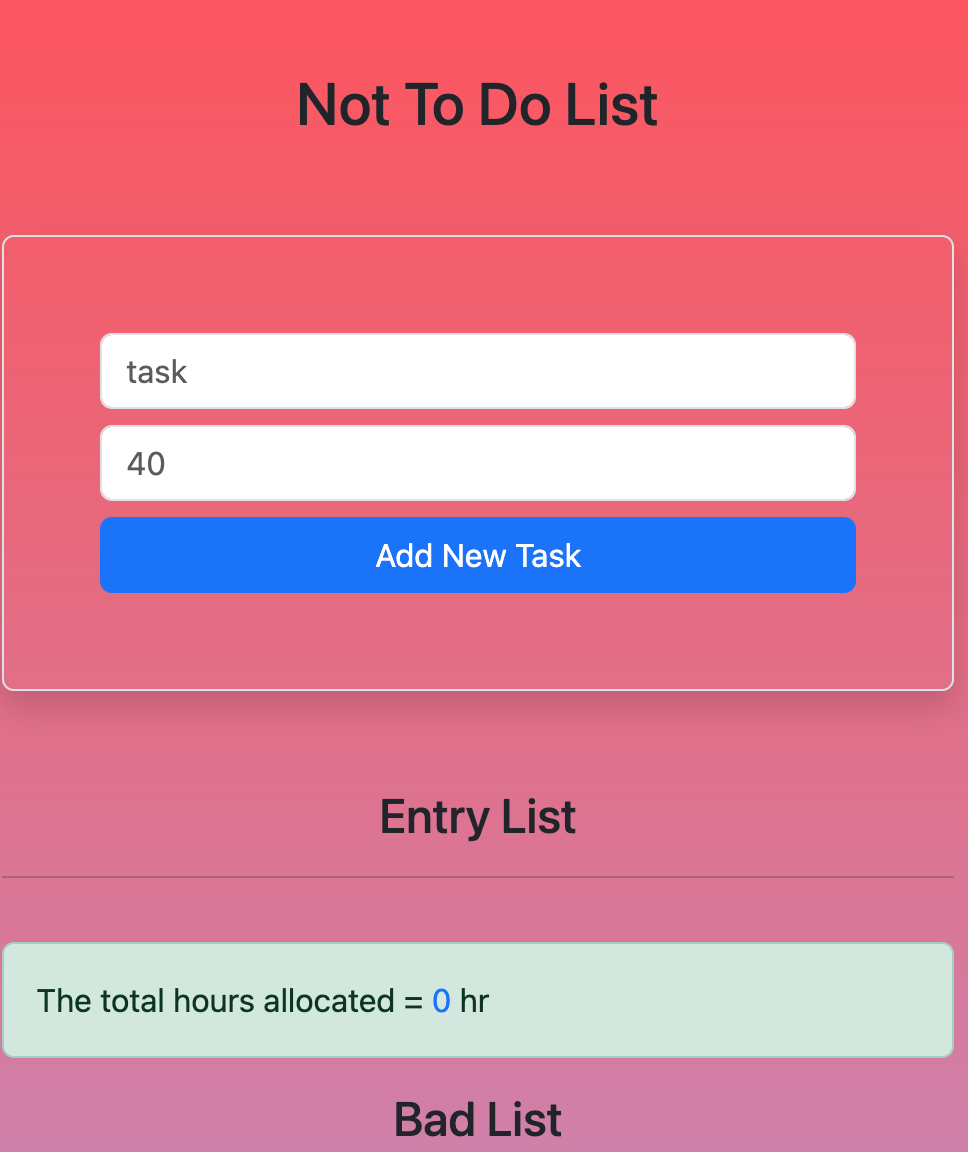
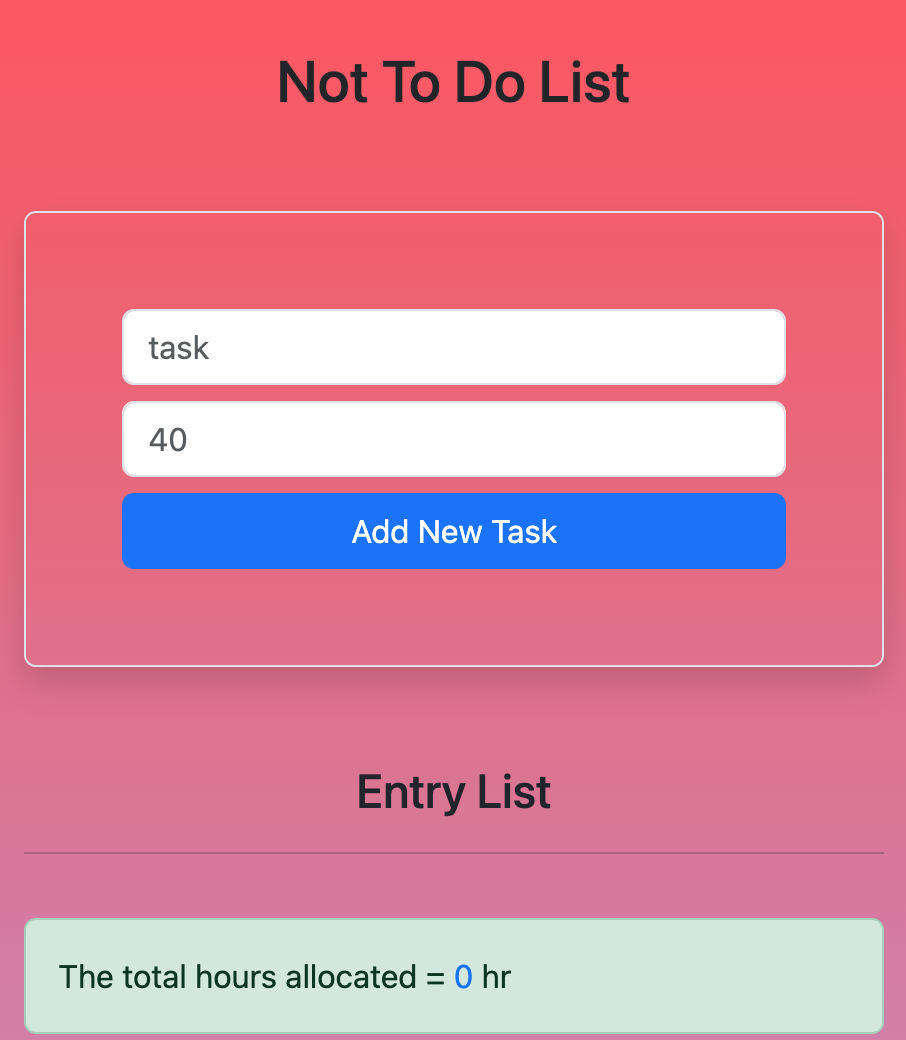
portfolio updated

diff --git a/style.css b/style.css
@@ -38,6 +38,7 @@ html {
 .container {
   width: 80%;
   margin: auto;
+  max-width: 1400px;
 }
 
 .background {
@@ -272,6 +273,8 @@ p {
   font-size: 2rem;
   display: flex;
   justify-content: center;
+  padding-top: 50px;
+  padding-bottom: 100px;
 }
 .sub-skills {
   display: flex;
@@ -294,53 +297,37 @@ i {
 .projects {
   height: 100%;
   padding-bottom: 20px;
+  width: 100%;
 }
-.projects .container {
-  display: flex;
-  flex-direction: column;
-  gap: 30px;
-}
-.project-cards {
+.projects-container {
   display: grid;
-  grid-template-areas:
-    "card-1 card-2"
-    "card-3 card-4";
-  grid-template-columns: 1fr 1fr;
+  gap: 1rem;
+  grid-template-columns: repeat(2, 1fr);
   gap: 10px;
 }
-.pro-img {
+
+.pro-title {
+  color: var(--black-text);
   display: flex;
   justify-content: center;
-}
-.pro-img-size {
-  width: 100%;
-  height: 40vh;
-}
-.pro-title h3 {
-  color: var(--black-text);
-}
-.tech-stack {
-  color: var(--black-text);
-}
-.card {
-  height: 65vh;
-  box-shadow: rgba(0, 0, 0, 0.25) 0px 18px 150px -20px;
-  display: flex;
   flex-direction: column;
+  align-items: start;
+  padding-left: 10px;
+}
+
+.card {
+  box-shadow: rgba(0, 0, 0, 0.25) 0px 18px 150px -20px;
+  border-radius: 5px;
+  padding-bottom: 3rem;
+  width: auto;
+}
+.card img {
+  width: 100%;
+}
+.git-link {
+  display: flex;
   justify-content: center;
   align-items: center;
-}
-.card-1 {
-  grid-area: card-1;
-}
-.card-2 {
-  grid-area: card-2;
-}
-.card-3 {
-  grid-area: card-3;
-}
-.card-4 {
-  grid-area: card-4;
 }
 
 /* about me infomation */
@@ -352,7 +339,7 @@ i {
   flex-direction: column;
   justify-content: center;
   align-items: center;
-  padding-top: 100px;
+
   gap: 50px;
 }
 .aboutme .container .content {
@@ -465,14 +452,22 @@ i {
     left: 15%;
     flex-wrap: wrap;
   }
-  .project-cards {
-    display: grid;
-    grid-template-areas:
-      "card-1"
-      "card-2"
-      "card-3"
-      "card-4";
-    grid-template-columns: 1fr;
+  .projects-container {
+    /* display: flex;
+    flex-direction: column; */
+    grid-template-columns: repeat(1, 1fr);
+  }
+
+  .card {
+    width: 500px;
+  }
+  .card img {
+    width: 100%;
+  }
+
+  .pro-title {
+    font-size: 1rem;
+    text-align: center;
   }
   .aboutme {
     height: 100%;
@@ -576,35 +571,20 @@ i {
     left: 20px;
   }
 
-  /* .projects {
-    height: 100vh;
-    padding-bottom: 20px;
-  }
-  .projects .container {
+  .projects-container {
     display: flex;
     flex-direction: column;
-    flex-wrap: wrap;
-  } */
-  .projects .container {
-    flex-direction: column;
-    margin: 0;
-    padding-left: 5%;
-    gap: 30px;
-  }
-  .project-cards {
-    display: grid;
-    grid-template-areas:
-      "card-1"
-      "card-2"
-      "card-3"
-      "card-4";
-    grid-template-columns: 1fr;
-    gap: 10px;
   }
 
-  .tech-stack {
+  .pro-title {
     font-size: 1rem;
     text-align: center;
+  }
+  .card {
+    width: 400px;
+  }
+  .card img {
+    width: 100%;
   }
 
   .aboutme {

diff --git a/index.html b/index.html
@@ -158,84 +158,58 @@
           </div>
         </div>
       </section>
-      <section class="projects background" id="project">
-        <div class="container">
-          <div class="title">Projects</div>
-          <div class="project-cards">
-                <div class="card-1 card">
-                  <div class="pro-img">
-                    <img class="pro-img-size" src="./assists/images/calculator.png" alt="calculator">
-                  </div>
+      <section class="projects background " id="project">
+         <div class="container">
+           <div class="title">Projects</div>
+        <div class="projects-container">
+                <div class="card">
+                    <img  src="./assists/images/calculator.png" width="100%" alt="calculator">
                   <div class="git-link">
                     <span><a href="https://github.com/yadin-nou/calculator-apple-version" target="_blank"><i class="fa-brands fa-github" style="color: rgb(36, 85, 159);font-size:1rem !important"></i></a></span>
                     <span><a href="https://yadin-nou.github.io/calculator-apple-version/" target="_blank"><i class="fa-solid fa-link" style="color: rgb(36, 85, 159);font-size:1rem !important"></i></a></span></div>
                   <div class="pro-title">
                     <h3>Prank Calculator Apple version</h3>
-                  </div>
-                  <div class="tech-stack"> Techstack: HTML, CSSS, Javascript</div>
+                  <div> Techstack: HTML, CSSS, Javascript</div>
                 </div>
-                <div class="card-2 card">
-                  <div class="pro-img">
-                    <img class="pro-img-size" src="./assists/images/travel.png" alt="calculator">
-                  </div>
+              </div>
+                <div class="card">
+                     <img  src="./assists/images/travel.png" width="100%" alt="calculator"/>
                   <div class="git-link">
                     <span><a href="https://github.com/yadin-nou/flex-box-template" target="_blank"><i class="fa-brands fa-github" style="color: rgb(36, 85, 159);font-size:1rem !important"></i></a></span>
-                    <span><a href="https://yadin-nou.github.io/flex-box-template/" target="_blank"><i class="fa-solid fa-link" style="color: rgb(36, 85, 159);font-size:1rem !important"></i></a></span></div>
+                    <span><a href="https://yadin-nou.github.io/flex-box-template/" target="_blank"><i class="fa-solid fa-link" style="color: rgb(36, 85, 159);font-size:1rem !important"></i></a></span>
+                  </div>
                   <div class="pro-title">
                     <h3>Travel Blog</h3>
-                  </div>
-                  <div class="tech-stack"> Techstack: HTML, CSSS</div>
+                  
+                  <div > Techstack: HTML, CSSS</div>
                 </div>
-                <div class="card-3 card">
-                  <div class="pro-img">
-                    <img class="pro-img-size" src="./assists/images/random-User.png" alt="calculator">
-                  </div>
+              </div>
+                <div class="card">
+                    <img src="./assists/images/random-User.png" alt="calculator">
+                  
                   <div class="git-link">
                     <span><a href="https://github.com/yadin-nou/contact-list" target="_blank"><i class="fa-brands fa-github" style="color: rgb(36, 85, 159);font-size:1rem !important"></i></a></span>
                     <span><a href="https://yadin-nou.github.io/contact-list/" target="_blank"><i class="fa-solid fa-link" style="color: rgb(36, 85, 159);font-size:1rem !important"></i></a></span></div>
                   <div class="pro-title">
                     <h3>Contact List</h3>
-                  </div>
-                  <div class="tech-stack"> Techstack: HTML, CSSS, Javascript,API and Bootstrap</div>
+                 
+                  <div> Techstack: HTML, CSSS, Javascript,API and Bootstrap</div>
                 </div>
-                <div class="card-4 card">
-                  <div class="pro-img">
-                    <img class="pro-img-size" src="./assists/images/not_list.png" alt="calculator">
-                  </div>
+              </div>
+                <div class="card">
+                     <img src="./assists/images/not_list.png" alt="calculator">
+               
                   <div class="git-link">
                     <span><a href="https://github.com/yadin-nou/not-to-list" target="_blank"><i class="fa-brands fa-github" style="color: rgb(36, 85, 159);font-size:1rem !important"></i></a></span>
                     <span><a href="https://yadin-nou.github.io/not-to-list/" target="_blank"><i class="fa-solid fa-link" style="color: rgb(36, 85, 159);font-size:1rem !important"></i></a></span></div>
                   <div class="pro-title">
                     <h3>NOT To List</h3>
-                  </div>
-                  <div class="tech-stack"> Techstack: HTML, CSSS, Javascript</div>
+                  
+                  <div> Techstack: HTML, CSSS, Javascript</div>
                 </div>
-                <!-- <div class="card-3 card">
-                  <div class="pro-img">
-                    <img class="pro-img-size" src="./assists/images/calculator.png" alt="calculator">
-                  </div>
-                  <div class="git-link">
-                    <span><a href="#"><i class="fa-brands fa-github" style="color: rgb(36, 85, 159);font-size:1rem !important"></i></a></span>
-                    <span><a href="#"><i class="fa-solid fa-link" style="color: rgb(36, 85, 159);font-size:1rem !important"></i></a></span></div>
-                  <div class="pro-title">
-                    <h3>Prank Calculator Apple version</h3>
-                  </div>
-                  <div class="tech-stack"> Techstack: HTML, CSSS, Javascript</div>
-                </div>
-                <div class="card-4 card">
-                  <div class="pro-img">
-                    <img class="pro-img-size" src="./assists/images/calculator.png" alt="calculator">
-                  </div>
-                  <div class="git-link">
-                    <span><a href="#"><i class="fa-brands fa-github" style="color: rgb(36, 85, 159);font-size:1rem !important"></i></a></span>
-                    <span><a href="#"><i class="fa-solid fa-link" style="color: rgb(36, 85, 159);font-size:1rem !important"></i></a></span></div>
-                  <div class="pro-title">
-                    <h3>Prank Calculator Apple version</h3>
-                  </div>
-                  <div class="tech-stack"> Techstack: HTML, CSSS, Javascript</div>
-                </div> -->
-                 
-          </div>
+              </div>
+                
+         </div>
           </div>
       </section>
       